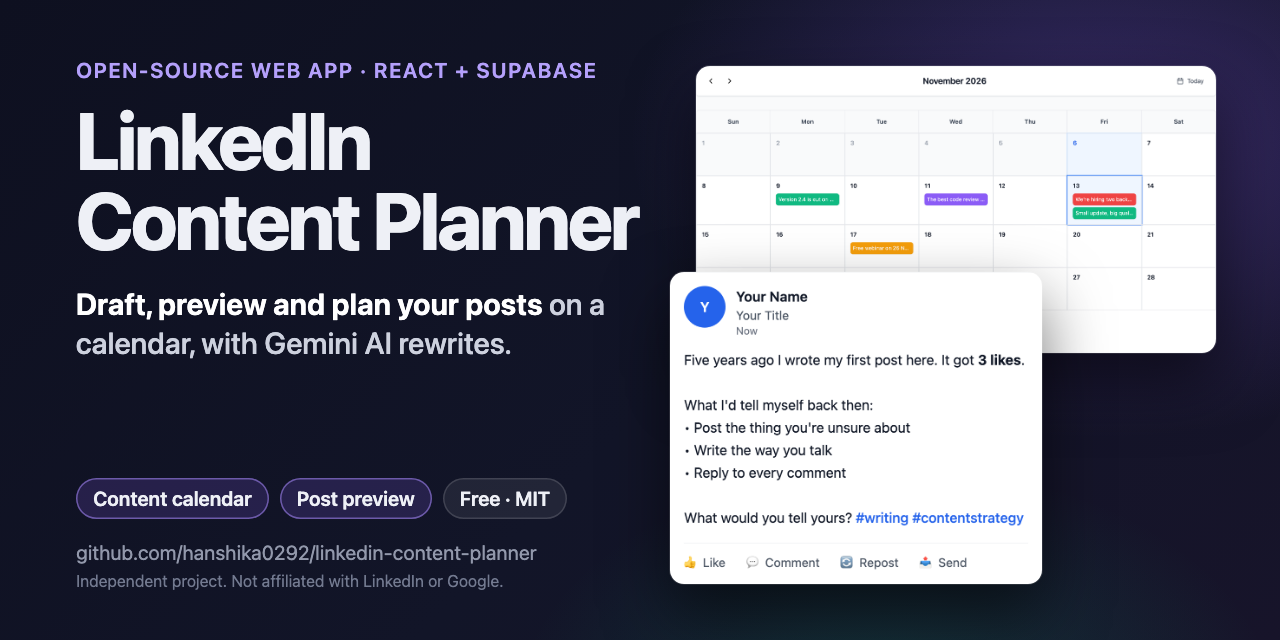
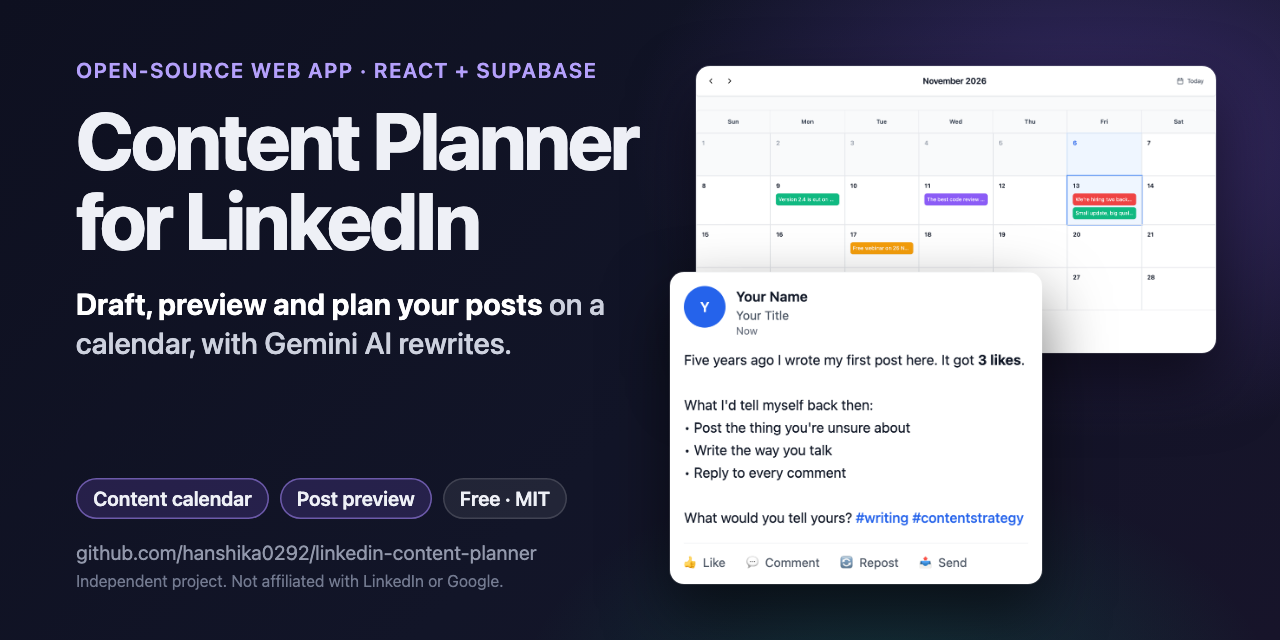
Update the README and screenshots for these fixes
- Drop the fixed items from Known gaps, Security and the FAQ: the
  retired Gemini model, the IST calendar bug, the fixed IST time zone,
  the unescaped preview and the lint/type errors.
- Document VITE_GEMINI_MODEL, npm test and the test files, Node 20+
  (needed by @google/genai and Vitest 4) and Vite 6.
- Describe the remaining scheduled-time gap: the `date` column keeps no
  time, and keeping it would need a timestamptz column plus sending the
  UTC offset.
- Use "Content Planner for LinkedIn" as the project name in the README,
  THIRD_PARTY_NOTICES (which also lists @google/genai and Vitest now)
  and the social preview image.
- Re-render the post editor screenshot (new preview heading and time
  zone note) and the social preview (new name) with the same fictional
  sample data.

Changed region(s): [[0.0625, 0.1562, 0.5, 0.4062]]

diff --git a/README.md b/README.md
@@ -1,8 +1,8 @@
-# LinkedIn Content Planner: open-source post planner and content calendar for LinkedIn, with Gemini AI writing help
+# Content Planner for LinkedIn: open-source post planner and content calendar, with Gemini AI writing help
 
 [![MIT License](https://img.shields.io/badge/license-MIT-blue.svg)](LICENSE)
 ![React 18 + TypeScript](https://img.shields.io/badge/React%2018-TypeScript-3178C6.svg)
-![Vite 5](https://img.shields.io/badge/Vite-5-646CFF.svg)
+![Vite 6](https://img.shields.io/badge/Vite-6-646CFF.svg)
 ![Supabase](https://img.shields.io/badge/Supabase-Auth%20%2B%20Postgres-3ECF8E.svg)
 ![Google Gemini API](https://img.shields.io/badge/AI-Google%20Gemini-8E75B2.svg)
 
@@ -11,7 +11,7 @@
 > Independent project. Not affiliated with, endorsed by or sponsored by LinkedIn or Google.
 
 <p align="center">
-  <img src="docs/dashboard.png" width="900" alt="LinkedIn Content Planner dashboard with fictional sample posts: counts of total, draft, scheduled and published posts, a weekly activity chart of posts created, upcoming scheduled posts with countdowns, and quick actions">
+  <img src="docs/dashboard.png" width="900" alt="Content Planner for LinkedIn dashboard with fictional sample posts: counts of total, draft, scheduled and published posts, a weekly activity chart of posts created, upcoming scheduled posts with countdowns, and quick actions">
 </p>
 
 Posting on LinkedIn regularly means juggling ideas, half-written drafts and a posting plan across notes apps and documents. This app keeps every post in one place and answers the everyday questions:
@@ -53,7 +53,7 @@ Screenshots show the real app with fictional sample data.
 
 - A 3,000-character limit with a live counter that turns amber near the limit and red over it.
 - A formatting toolbar for bold, italic, bullet points, hashtags, mentions and links. Keyboard shortcuts: Ctrl/Cmd+B, Ctrl/Cmd+I, and Ctrl/Cmd+S to save.
-- A side-by-side preview styled like a LinkedIn post, with highlighted hashtags, mentions and links.
+- A side-by-side preview styled like a LinkedIn post, with highlighted hashtags, mentions and links. Post text is HTML-escaped before formatting, so any markup in a post shows up as plain text.
 - A category picker, and a choice between saving as a draft or scheduling with a date and time picker (minimum one hour from now).
 
 **Content calendar**
@@ -79,11 +79,11 @@ Screenshots show the real app with fictional sample data.
 - **Refine content:** eight rewrite modes: improve clarity, make more engaging, professional tone, add storytelling, add a call to action, optimize hashtags, make concise, and add more detail. You see the rewrite below the original and choose to use it, go back, or try another mode.
 - **Image generation (mocked):** "From content" asks Gemini to describe a suitable image. The image itself is a random stock photo from picsum.photos. "Custom prompt" does not call Gemini at all. See [Status and limitations](#status-and-limitations).
 
-The AI features currently need a one-line model update before they work. See [Known gaps](#known-gaps).
+The AI features use `gemini-3.8-flash` by default. Set `VITE_GEMINI_MODEL` to use a different Gemini model (see [Configuration](#configuration)).
 
 ## Quick start
 
-You need Node.js 18 or newer with npm, a [Supabase](https://supabase.com) project, and (only for the AI features) a Google Gemini API key.
+You need Node.js 20 or newer with npm, a [Supabase](https://supabase.com) project, and (only for the AI features) a Google Gemini API key.
 
 ```bash
 git clone https://github.com/hanshika0292/linkedin-content-planner.git
@@ -125,6 +125,7 @@ Open http://localhost:5173 and sign up on the first screen. Your default categor
 | `npm run build` | Build for production into `dist/` |
 | `npm run preview` | Serve the production build locally |
 | `npm run lint` | Run ESLint |
+| `npm test` | Run the unit tests once (Vitest) |
 
 ## Configuration
 
@@ -135,10 +136,11 @@ All settings are environment variables in `.env` (copied from [`.env.example`](.
 | `VITE_SUPABASE_URL` | Yes | `https://your-project-ref.supabase.co` | Your Supabase project's API settings (Project URL) |
 | `VITE_SUPABASE_ANON_KEY` | Yes | `your-supabase-anon-key` | The same page: the `anon` public key (newer projects call it the publishable key). Never use the `service_role` or secret key here. |
 | `VITE_GEMINI_API_KEY` | No | `your-gemini-api-key` | Google AI Studio, "Get API key" |
+| `VITE_GEMINI_MODEL` | No | `gemini-3.8-flash` | The Gemini model to call. Leave it unset to use the default (`gemini-3.8-flash`). Set it when Google retires that model; current names are on Google's [models page](https://ai.google.dev/gemini-api/docs/models) and retirement dates on the [deprecations page](https://ai.google.dev/gemini-api/docs/deprecations). |
 
 If either Supabase variable is missing, the app throws "Missing Supabase environment variables" at startup and the page stays blank (the message is in the browser console). Without the Gemini key it still runs, and the AI panels show a "Gemini API not configured" message.
 
-All three values are read in the browser (`VITE_` prefix), so they end up in the built JavaScript. That is expected for the Supabase anon key. See the limitations below about the Gemini key.
+All of these values are read in the browser (`VITE_` prefix), so they end up in the built JavaScript. That is expected for the Supabase anon key. See the limitations below about the Gemini key.
 
 ## How it works
 
@@ -147,19 +149,19 @@ The app is a single-page React app with no backend of its own. The browser talks
 ```mermaid
 flowchart LR
   B["Browser: React app"] -- "sign-in, posts, categories (supabase-js)" --> S[("Supabase Auth + Postgres")]
-  B -- "topic ideas, drafts, rewrites (@google/generative-ai)" --> G["Google Gemini API"]
+  B -- "topic ideas, drafts, rewrites (@google/genai)" --> G["Google Gemini API"]
   B -- "placeholder photos" --> P["picsum.photos"]
 ```
 
 - **Supabase** handles sign-in (`supabase.auth`) and reading and writing the `posts` and `categories` tables through `@supabase/supabase-js`. Every query filters by the signed-in user's ID.
-- **Google Gemini** (`gemini-1.5-flash`, through `@google/generative-ai`) produces topic ideas, post drafts, rewrites and image descriptions. All prompts live in `src/lib/gemini.ts`.
+- **Google Gemini** (`gemini-3.8-flash` unless `VITE_GEMINI_MODEL` names another model, through Google's `@google/genai` SDK) produces topic ideas, post drafts, rewrites and image descriptions. All prompts live in `src/lib/gemini.ts`. The SDK is loaded in its own chunk the first time an AI feature is used, so it does not slow down the first page load.
 
 Inside the app:
 
 - `App.tsx` shows the sign-in form until Supabase reports a session, then renders the main shell.
 - `AppContext` (React Context with `useReducer`) holds the current view (dashboard, calendar or posts), the selected calendar date and the status filter. It also exposes the `usePosts` and `useCategories` hooks, which own all database reads and writes. There is no router; views switch through context state.
 - Small hooks keep logic out of the components: `use-dashboard-stats` (counts, chart data, upcoming and recent posts), `use-calendar` and `use-calendar-posts` (month grid and posts by day), `use-post-filters` (search and filters), `use-post-actions` (save, duplicate, delete, publish) and `use-text-formatting` (toolbar edits at the cursor).
-- Dates for the calendar and the scheduling picker are handled in Indian Standard Time (`Asia/Kolkata`) in `src/utils/date-utils.ts`.
+- Dates use the browser's time zone. A scheduled date is treated as a calendar day, not converted through UTC, so a post planned for 20 November shows on 20 November in every time zone, and the calendar highlights your local today (`src/utils/date-utils.ts`).
 
 **What "scheduled" means.** Choosing "Schedule Post" sets the post's status to `scheduled` and saves the chosen date. The post then appears on the calendar and in the dashboard's upcoming list. Nothing runs in the background: there is no auto-posting, no reminder email and no notification. When you have posted it on LinkedIn yourself, click "Mark as published" in the Posts view, which only changes the status in the database.
 
@@ -170,20 +172,23 @@ Inside the app:
 | `categories` | `id`, `name`, `color`, `user_id`, `created_at` |
 | `posts` | `id`, `content`, `category` (references `categories`), `scheduled_date`, `status` (`draft`, `scheduled` or `published`), `media_type`, `media_url`, `media_alt`, `user_id`, `created_at`, `updated_at` |
 
-**Tech stack:** React 18 and TypeScript, Vite 5, Tailwind CSS 3, lucide-react icons, Supabase (Auth and Postgres) with `@supabase/supabase-js` v2, Google Gemini with `@google/generative-ai`, and ESLint 9 with `typescript-eslint` and React Hooks rules.
+**Tech stack:** React 18 and TypeScript, Vite 6, Tailwind CSS 3, lucide-react icons, Supabase (Auth and Postgres) with `@supabase/supabase-js` v2, Google Gemini with `@google/genai`, Vitest for unit tests, and ESLint 9 with `typescript-eslint` and React Hooks rules.
 
 ### Project structure
 
 ```
 .
 ├── index.html
+├── public/
+│   └── favicon.svg
 ├── supabase/
 │   └── setup.sql                  # Table definitions
 └── src/
     ├── App.tsx                    # Auth gate and view switch
     ├── main.tsx
     ├── context/
-    │   └── AppContext.tsx         # View, date and filter state; posts and categories hooks
+    │   ├── AppContext.tsx         # Provider: view, date and filter state; posts and categories hooks
+    │   └── use-app.ts             # The context and the useApp() hook
     ├── components/
     │   ├── AuthForm.tsx           # Sign in / sign up
     │   ├── Header.tsx             # Navigation and sign out
@@ -199,12 +204,14 @@ Inside the app:
     ├── hooks/                     # Data hooks (usePosts, useCategories, useAuth, useTrendingTopics) and UI logic hooks
     ├── lib/
     │   ├── supabase.ts            # Supabase client and table types
-    │   └── gemini.ts              # Gemini client, prompts, refinement options
+    │   └── gemini.ts              # Gemini client, model setting, prompts, refinement options
     ├── types/index.ts             # Post, Category, ViewMode, PostFilter
     └── utils/
-        ├── date-utils.ts          # Relative dates and IST helpers
-        └── format-linkedin-content.ts  # Preview formatting
+        ├── date-utils.ts          # Calendar-day, picker and relative-date helpers
+        └── format-linkedin-content.ts  # Preview formatting (escapes HTML first)
 ```
+
+Unit tests sit next to the code they cover: `src/utils/date-utils.test.ts`, `src/utils/format-linkedin-content.test.ts` and `src/lib/gemini.test.ts`.
 
 ## FAQ
 
@@ -227,14 +234,14 @@ The app is free and open source under the MIT License. You run it with your own 
 In your own Supabase project. Turn on Row Level Security with the snippet in [Quick start](#quick-start) so each account can only reach its own rows. When you use an AI feature, the post text or topic is sent to the Gemini API.
 
 **Which time zone does it use?**
-Indian Standard Time, fixed in `src/utils/date-utils.ts`. See the time-zone notes under [Known gaps](#known-gaps).
+Your browser's. A scheduled date is a calendar day, so a post planned for 20 November shows on 20 November wherever you open the app, and "today" is your local today.
 
 **Can I deploy it for other people to use?**
 It was built as a personal tool. Before a public deployment, turn on Row Level Security and move the Gemini calls behind a server function so the API key is not in the browser bundle.
 
 ## Status and limitations
 
-This is a working personal project, not a finished product. There are no automated tests; it has been checked by hand. `npm run build` succeeds. `npm run lint` and the TypeScript check (`npx tsc -p tsconfig.app.json --noEmit`) currently report a few errors (unused `React` imports, two `any` types and an unused parameter); they don't affect the build.
+This is a working personal project, not a finished product. `npm test`, `npm run lint`, the TypeScript check (`npx tsc -p tsconfig.app.json --noEmit`) and `npm run build` all pass. The unit tests cover the date helpers (run in several time zones), the preview formatter and the Gemini requests. The Gemini tests use a stubbed network, so they check the request the app sends and how it reads the reply, not the live API. The rest of the app has been checked by hand.
 
 **What it does not do**
 
@@ -244,13 +251,10 @@ This is a working personal project, not a finished product. There are no automat
 
 ### Known gaps
 
-- **The Gemini model needs updating.** `src/lib/gemini.ts` hard-codes `gemini-1.5-flash`, which Google has retired, so the AI features return an error until you change the model name to a current one from Google's [model list](https://ai.google.dev/gemini-api/docs/models).
-- **Calendar dates in IST browsers.** With the browser's time zone set to IST, the calendar shows each scheduled post one day after its date, and from 05:30 each morning it highlights tomorrow as "today". It showed the right days with the browser set to UTC. The cause is in the helpers in `src/utils/date-utils.ts`, which mix `toLocaleString` and `toISOString`.
 - On the dashboard, the "Create Post" and "Analytics" quick actions, opening an upcoming or recent post, and picking a trending topic are not wired up. They log to the console, or switch to the Posts view without opening the editor. Generating a post from a topic works inside the editor.
 - There is no screen for adding or renaming categories, only the four defaults. (`useCategories` has an `addCategory` function that no screen calls yet.)
 - The "Forgot password?" link does nothing.
-- In `setup.sql`, `scheduled_date` is a `date` column, so the time picked in the editor is not stored, and scheduled posts show midnight UTC as their time. Changing it to `timestamptz` would keep it.
-- Times are fixed to Indian Standard Time.
+- In `setup.sql`, `scheduled_date` is a `date` column, so the time picked in the editor is not stored and the app shows only the date. Keeping the time would need a `timestamptz` column and the editor sending the time with its UTC offset; the date helpers already read such values.
 - The editor offers only Draft and Scheduled, so opening a published post in the editor sets it back to Scheduled.
 - The `Post` type has fields for AI image metadata and refinement history, but there are no database columns for them, so they are not saved.
 - `PostPreview.tsx` (a 210-character "See more" preview) is not used anywhere.
@@ -259,18 +263,17 @@ This is a working personal project, not a finished product. There are no automat
 
 - `setup.sql` does not enable Row Level Security. The app filters every query by user ID, but only the database can enforce that. Run the policy snippet in [Quick start](#quick-start) before storing real data.
 - Gemini is called from the browser, so `VITE_GEMINI_API_KEY` ships in the client bundle. That is fine for local use. For a public deployment, move the Gemini calls behind a server function.
-- The preview builds HTML from the post text without escaping it first.
 - Bold and italic use Markdown-style `**` and `*` markers. LinkedIn does not render Markdown, so these only look bold or italic in the preview.
 
 ## Contributing
 
-Issues and pull requests are welcome. Useful places to start are the [Known gaps](#known-gaps): the Gemini model name, the calendar time-zone bug, the unwired dashboard actions, a category editor, and escaping HTML in the preview. Please run `npm run build` and `npm run lint` before opening a pull request.
+Issues and pull requests are welcome. Useful places to start are the [Known gaps](#known-gaps): the unwired dashboard actions, a category editor, the "Forgot password?" link and keeping the scheduled time. Please run `npm test`, `npm run lint`, `npx tsc -p tsconfig.app.json --noEmit` and `npm run build` before opening a pull request.
 
 By contributing, you agree that your contributions are licensed under the MIT License.
 
 ## Credits
 
-Built on [React](https://react.dev), [Vite](https://vitejs.dev), [TypeScript](https://www.typescriptlang.org), [Tailwind CSS](https://tailwindcss.com), [Lucide](https://lucide.dev) icons, [Supabase](https://supabase.com) and the [Google Gemini API](https://ai.google.dev) through `@google/generative-ai`. Placeholder images come from [Lorem Picsum](https://picsum.photos). Nothing is vendored; see [THIRD_PARTY_NOTICES.md](THIRD_PARTY_NOTICES.md).
+Built on [React](https://react.dev), [Vite](https://vitejs.dev), [TypeScript](https://www.typescriptlang.org), [Tailwind CSS](https://tailwindcss.com), [Lucide](https://lucide.dev) icons, [Supabase](https://supabase.com) and the [Google Gemini API](https://ai.google.dev) through `@google/genai`. Tests run on [Vitest](https://vitest.dev). Placeholder images come from [Lorem Picsum](https://picsum.photos). Nothing is vendored; see [THIRD_PARTY_NOTICES.md](THIRD_PARTY_NOTICES.md).
 
 ## License
 

diff --git a/THIRD_PARTY_NOTICES.md b/THIRD_PARTY_NOTICES.md
@@ -1,6 +1,6 @@
 # Third-party notices
 
-LinkedIn Content Planner does not vendor, copy or fork any third-party source code, fonts,
+Content Planner for LinkedIn does not vendor, copy or fork any third-party source code, fonts,
 images or data. Everything in this repository is original work under the [MIT License](LICENSE).
 
 ## Dependencies
@@ -12,10 +12,10 @@ included in this repository. The main runtime dependencies are:
 | --- | --- |
 | [React](https://github.com/facebook/react) and React DOM | MIT |
 | [@supabase/supabase-js](https://github.com/supabase/supabase-js) | MIT |
-| [@google/generative-ai](https://github.com/google-gemini/generative-ai-js) | Apache-2.0 |
+| [@google/genai](https://github.com/googleapis/js-genai) | Apache-2.0 |
 | [lucide-react](https://github.com/lucide-icons/lucide) (icons) | ISC |
 
-Build tools (Vite, TypeScript, Tailwind CSS, PostCSS, ESLint) are dev dependencies under their
+Build and test tools (Vite, TypeScript, Tailwind CSS, PostCSS, ESLint, Vitest) are dev dependencies under their
 own licenses. A production build (`npm run build`) bundles the runtime dependencies into
 `dist/`. If you redistribute a build, include their license notices; `npm ls` and each
 package's `LICENSE` file in `node_modules/` list them.
